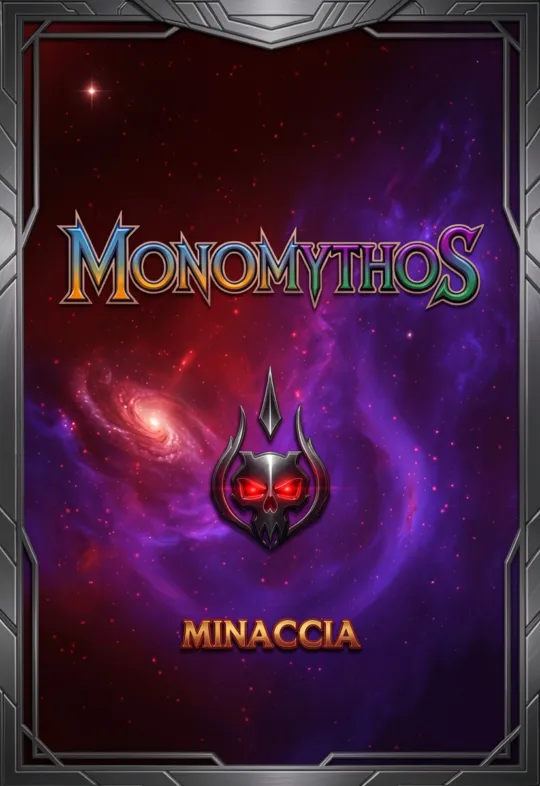
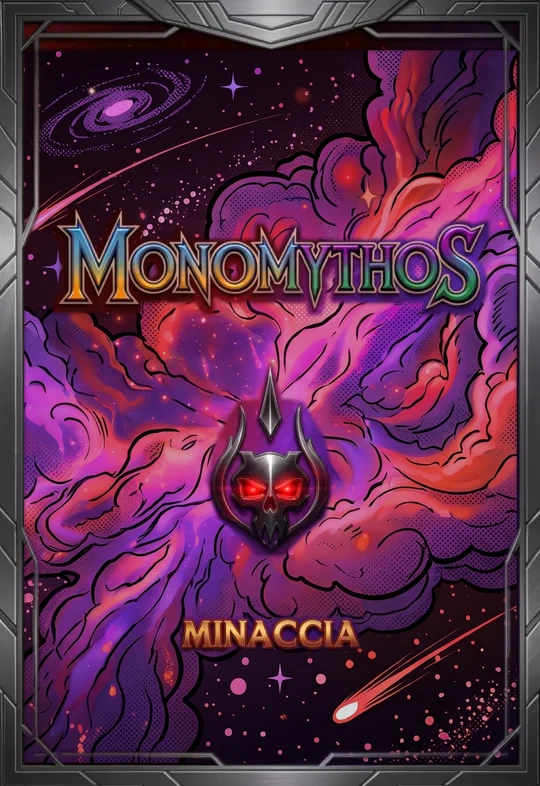
Retro carte con le nebulose di Alessio e vittoria del Villain quando restano solo Villain
Claude-Session: https://claude.ai/code/session_01GbypLYdo7YYeqXmyNx1goG

diff --git a/js/engine.js b/js/engine.js
@@ -761,6 +761,7 @@ class MonomythosEngine {
       player.state = 'villain';
       this.addLog('threat', `[TRAUMA] PUNTO DI ROTTURA! ${player.name} ha accumulato 5 Trauma e si trasforma in VILLAIN!`);
       this.emit('player_corrupted', player);
+      this.checkVillainVictory();
     }
   }
 
@@ -1144,8 +1145,25 @@ class MonomythosEngine {
         this.addLog('threat', `[PERMADEATH] ${player.name} è caduto ed è estromesso dalla partita!`);
         this.recalculateMultiPathOnHeroDeath();
         this.emit('player_died', player);
+        this.checkVillainVictory();
       }
     }
+  }
+
+  // Il Villain vince quando tutti gli altri giocatori sono morti e restano in piedi solo Villain
+  checkVillainVictory() {
+    if (!this.state || this.isGameOver() || this.state.players.length < 2) return false;
+    const living = this.state.players.filter(p => !p.isDead);
+    const someoneDead = this.state.players.some(p => p.isDead);
+    if (!someoneDead || living.length === 0 || living.some(p => p.state !== 'villain')) return false;
+    this.state.phase = 'gameover';
+    this.state.winner = 'villain';
+    this.state.villainWinners = living.map(p => p.id);
+    const names = living.map(p => p.name).join(' e ');
+    this.addLog('threat', `[VITTORIA DEL VILLAIN] ${names} resta in piedi sulle rovine: vince il Villain!`);
+    if (window.Progression && living.some(p => !p.isBot && !p.remoteUid)) window.Progression.addCredits(200, 'Vittoria da Villain');
+    this.emit('game_over', { winner: 'villain', winners: living.map(p => p.id) });
+    return true;
   }
 
   recalculateMultiPathOnHeroDeath() {
@@ -1194,6 +1212,7 @@ class MonomythosEngine {
   }
 
   checkAllHeroesDead() {
+    if (this.checkVillainVictory()) return true;
     const living = this.state.players.filter(p => !p.isDead);
     if (living.length === 0) {
       this.state.phase = 'gameover';

diff --git a/js/ui.js b/js/ui.js
@@ -2482,7 +2482,17 @@ class UIController {
     const title = document.getElementById('gameOverTitle');
     const sub = document.getElementById('gameOverSubtitle');
     const currentCr = window.Progression ? window.Progression.getCredits() : 0;
-    if (winner === 'heroes') {
+    const st = window.GameEngine && window.GameEngine.state;
+    const me = st && st.players.find(p => p.isLocal);
+    if (winner === 'villain') {
+      const won = me && (st.villainWinners || []).includes(me.id);
+      title.textContent = won ? 'VITTORIA DEL VILLAIN!' : 'IL VILLAIN HA VINTO';
+      title.style.color = won ? '#d94cff' : '#ff4444';
+      const names = (st.players || []).filter(p => (st.villainWinners || []).includes(p.id)).map(p => p.name).join(' e ');
+      sub.innerHTML = won
+        ? `Tutti gli altri sono caduti: resti solo tu.<br><br><b style="font-size:16px;">+200 Crediti Cosmici!</b><br><span style="font-size:12px; opacity:0.8;">Crediti Totali: ${currentCr} CR</span>`
+        : `${names} è rimasto l'unico in piedi e vince come Villain.<br><br><span style="font-size:12px; opacity:0.8;">Crediti Totali: ${currentCr} CR</span>`;
+    } else if (winner === 'heroes') {
       title.textContent = 'VITTORIA COSMICA!';
       title.style.color = 'var(--oro-soft)';
       sub.innerHTML = `Avete trionfato sulla Calamità!<br><br><b style="color:var(--oro); font-size:16px;">+300 Crediti Cosmici Guadagnati!</b><br><span style="font-size:12px; opacity:0.8;">Crediti Totali: ${currentCr} CR</span><br><br>Usa i tuoi crediti nel Negozio per sbloccare nuove carte e personalizzare il tuo mazzo!`;

diff --git a/strumenti/simulazione_bilanciamento.js b/strumenti/simulazione_bilanciamento.js
@@ -2,7 +2,7 @@
 // Override facoltativo delle manopole: BIL='{"scalaVita":0.5}' node strumenti/simulazione_bilanciamento.js . 200 3
 const vm=require('vm'),fs=require('fs');
 const dir=process.argv[2]; const N=+process.argv[3]||200; const SQ=+process.argv[4]||3;
-const res={heroes:0,threat:0,stuck:0}; let acts=[[],[],[]], firstVil=[], vilCount=0, games=0, turnsPerRound=[], finalRound=[], actReached=[0,0,0];
+const res={heroes:0,threat:0,villain:0,stuck:0}; let acts=[[],[],[]], firstVil=[], vilCount=0, games=0, turnsPerRound=[], finalRound=[], actReached=[0,0,0];
 for(let i=0;i<N;i++){
   const q=[]; const ctx={console:{log(){},warn(){},error:console.error},Math,JSON,Object,Array,String,Set,Map,parseInt,Date,setTimeout:(f)=>q.push(f)};
   ctx.window=ctx; ctx.MONOMYTHOS_BILANCIAMENTO=JSON.parse(process.env.BIL||'{}'); vm.createContext(ctx);

diff --git a/js/online.js b/js/online.js
@@ -484,6 +484,10 @@
       if (!P) return;
       if (ev.e === 'act_advanced') { P.addCredits(100, 'Minaccia risolta (online)'); C && C.registraMinaccia(); }
       if (ev.e === 'game_over' && ev.d && ev.d.winner === 'heroes') { P.addCredits(300, 'Vittoria online'); C && C.registraMinaccia(); }
+      if (ev.e === 'game_over' && ev.d && ev.d.winner === 'villain') {
+        const me = window.GameEngine.state.players.find(p => p.isLocal);
+        if (me && (ev.d.winners || []).includes(me.id)) P.addCredits(200, 'Vittoria da Villain (online)');
+      }
     },
 
     // Dopo l'accesso: entra nella stanza del link, se c'era

diff --git a/sw.js b/sw.js
@@ -1,5 +1,5 @@
 // Monomythos Service Worker - Fast offline cache
-const CACHE_NAME = 'monomythos-v18';
+const CACHE_NAME = 'monomythos-v19';
 const ASSETS = [
   './',
   './index.html',

diff --git a/strumenti/retro/componi_retro.py b/strumenti/retro/componi_retro.py
@@ -1,0 +1,112 @@
+# Rifà lo spazio dentro i retro delle carte con le nebulose di Alessio,
+# lasciando identici cornice, logo, emblema e scritta.
+#   python3 strumenti/retro/componi_retro.py
+import numpy as np
+from PIL import Image, ImageFilter
+D = 'strumenti/retro/'
+
+def hsv(img):
+    return np.array(img.convert('HSV')).astype(float)
+
+def dilate(m, r):
+    out = m.copy()
+    for dy in range(-r, r + 1):
+        for dx in range(-r, r + 1):
+            out |= np.roll(np.roll(m, dy, 0), dx, 1)
+    return out
+
+def fill_holes(m):
+    # riempie i buchi chiusi: flood fill dal bordo sul complemento
+    h, w = m.shape
+    outside = np.zeros_like(m)
+    outside[0, :] = ~m[0, :]; outside[-1, :] = ~m[-1, :]; outside[:, 0] = ~m[:, 0]; outside[:, -1] = ~m[:, -1]
+    free = ~m
+    while True:
+        grown = outside | (dilate(outside, 1) & free)
+        if (grown == outside).all(): break
+        outside = grown
+    return ~outside
+
+def tpl_mask(shape, tpl, x, y, w, h, grow=2):
+    t = Image.open(tpl).convert('RGBA').resize((w, h), Image.LANCZOS)
+    a = np.array(t)[..., 3] > 40
+    m = np.zeros(shape, bool)
+    m[y:y+h, x:x+w] = a
+    return dilate(m, grow)
+
+def nebula(path, size, darken):
+    neb = Image.open(path).convert('RGB')
+    W, H = size
+    # ritaglio verticale al centro della nebulosa
+    s = H / neb.height
+    nw = int(neb.width * s) + 1
+    neb = neb.resize((nw, H), Image.LANCZOS)
+    cx = int(nw * 0.52)
+    neb = neb.crop((cx - W // 2, 0, cx - W // 2 + W, H))
+    arr = np.array(neb).astype(float) * darken
+    return arr
+
+def componi(card, neb_path, inner, frame_like, fg_mask, out, darken=0.85):
+    img = Image.open(D + card).convert('RGB')
+    a = np.array(img).astype(float)
+    h, w = a.shape[:2]
+    x0, y0, x1, y1 = inner
+    interior = np.zeros((h, w), bool); interior[y0:y1, x0:x1] = True
+    hv = hsv(img)
+    # ornamenti della cornice che entrano nell'area interna (angoli): solo vicino ai bordi
+    yy, xx = np.mgrid[0:h, 0:w]
+    near_edge = (xx < x0 + 70) | (xx > x1 - 70) | (yy < y0 + 70) | (yy > y1 - 70)
+    keep_frame = interior & near_edge & frame_like(hv, a)
+    keep_frame = dilate(keep_frame, 1)
+    replace = interior & ~keep_frame & ~fg_mask(a, hv)
+    # bordo morbido
+    m = Image.fromarray((replace * 255).astype(np.uint8)).filter(ImageFilter.GaussianBlur(1.6))
+    m = np.array(m).astype(float)[..., None] / 255
+    neb = np.zeros_like(a); nb = nebula(neb_path, (x1 - x0, y1 - y0), darken)
+    neb[y0:y1, x0:x1] = nb
+    res = a * (1 - m) + neb * m
+    Image.fromarray(np.clip(res, 0, 255).astype(np.uint8)).save(out, quality=90, method=6)
+    return Image.fromarray(np.clip(res, 0, 255).astype(np.uint8))
+
+# --- Retro del mazzo (eroi): cornice oro ---
+def frame_gold(hv, a):
+    H, S, V = hv[..., 0] * 360 / 255, hv[..., 1] / 255, hv[..., 2] / 255
+    return (H > 15) & (H < 55) & (S > 0.25) & (V > 0.25)
+
+def fg_hero(a, hv):
+    shape = a.shape[:2]
+    m = tpl_mask(shape, 'assets/icons/logo_titolo.webp', 61, 212, 420, 98, 3)
+    m |= tpl_mask(shape, 'assets/icons/logo_monograma.webp', 208, 364, 125, 193, 3)
+    return m
+
+# --- Retro Minaccia: cornice argento, teschio e scritta ---
+def frame_silver(hv, a):
+    S, V = hv[..., 1] / 255, hv[..., 2] / 255
+    return (S < 0.22) & (V > 0.28)
+
+SKULL_POLY = [(270, 362), (281, 398), (302, 400), (324, 438), (334, 480), (324, 517), (301, 537), (283, 555),
+              (257, 555), (239, 537), (216, 517), (206, 480), (216, 438), (238, 400), (259, 398)]
+
+def poly_mask(shape, poly, feather=0):
+    from PIL import ImageDraw
+    im = Image.new('L', (shape[1], shape[0]), 0)
+    ImageDraw.Draw(im).polygon(poly, fill=255)
+    return np.array(im) > 0
+
+def fg_threat(a, hv, logo=(56, 212, 430, 100), text_box=(170, 612, 375, 660)):
+    shape = a.shape[:2]
+    m = tpl_mask(shape, 'assets/icons/logo_titolo.webp', *logo, 3)
+    m |= poly_mask(shape, SKULL_POLY)
+    if text_box:
+        H, S, V = hv[..., 0] * 360 / 255, hv[..., 1] / 255, hv[..., 2] / 255
+        x0, y0, x1, y1 = text_box
+        reg = np.zeros(shape, bool); reg[y0:y1, x0:x1] = True
+        gold = (H > 8) & (H < 60) & (S > 0.3) & (V > 0.3)
+        m |= fill_holes(dilate(reg & gold, 3)) & dilate(reg, 3)
+    return m
+
+if __name__ == '__main__':
+    componi('originale_retrocartamazzo.webp', D + 'nebulosa_eroi.jpg', (22, 49, 520, 769), frame_gold, fg_hero, 'assets/cards/retrocartamazzo.webp')
+    componi('originale_cartaminacciaretro.webp', D + 'nebulosa_villain.jpg', (24, 50, 517, 763), frame_silver, fg_threat, 'assets/cards/cartaminacciaretro.webp')
+    componi('originale_cartathreatretro.webp', D + 'nebulosa_villain.jpg', (24, 50, 517, 764), frame_silver, fg_threat, 'assets/cards/cartathreatretro.webp')
+    print('ok')

diff --git a/strumenti/retro/match.py b/strumenti/retro/match.py
@@ -1,0 +1,31 @@
+# Trova posizione e scala di un'immagine trasparente (logo, emblema) dentro un retro di carta
+import sys, numpy as np
+from PIL import Image
+def find(card_path, tpl_path, box, scales):
+    card = np.array(Image.open(card_path).convert('L')).astype(float)
+    tpl0 = Image.open(tpl_path).convert('RGBA')
+    best = None
+    for s in scales:
+        w = int(round(s)); h = int(round(tpl0.height * w / tpl0.width))
+        t = tpl0.resize((w, h), Image.LANCZOS)
+        a = np.array(t)[..., 3].astype(float) / 255
+        g = np.array(t.convert('L')).astype(float)
+        x0, y0, x1, y1 = box
+        for y in range(y0, y1 - h, 2):
+            for x in range(x0, x1 - w, 2):
+                patch = card[y:y+h, x:x+w]
+                if patch.shape != g.shape: continue
+                d = ((patch - g) ** 2 * a).sum() / a.sum()
+                if best is None or d < best[0]: best = (d, x, y, w, h)
+    # rifinitura a passo 1
+    d0, bx, by, w, h = best
+    t = tpl0.resize((w, h), Image.LANCZOS); a = np.array(t)[..., 3].astype(float) / 255; g = np.array(t.convert('L')).astype(float)
+    for y in range(by - 2, by + 3):
+        for x in range(bx - 2, bx + 3):
+            patch = card[y:y+h, x:x+w]
+            if patch.shape != g.shape: continue
+            d = ((patch - g) ** 2 * a).sum() / a.sum()
+            if d < best[0]: best = (d, x, y, w, h)
+    return best
+if __name__ == '__main__':
+    print(find(sys.argv[1], sys.argv[2], tuple(map(int, sys.argv[3].split(','))), [float(v) for v in sys.argv[4].split(',')]))
